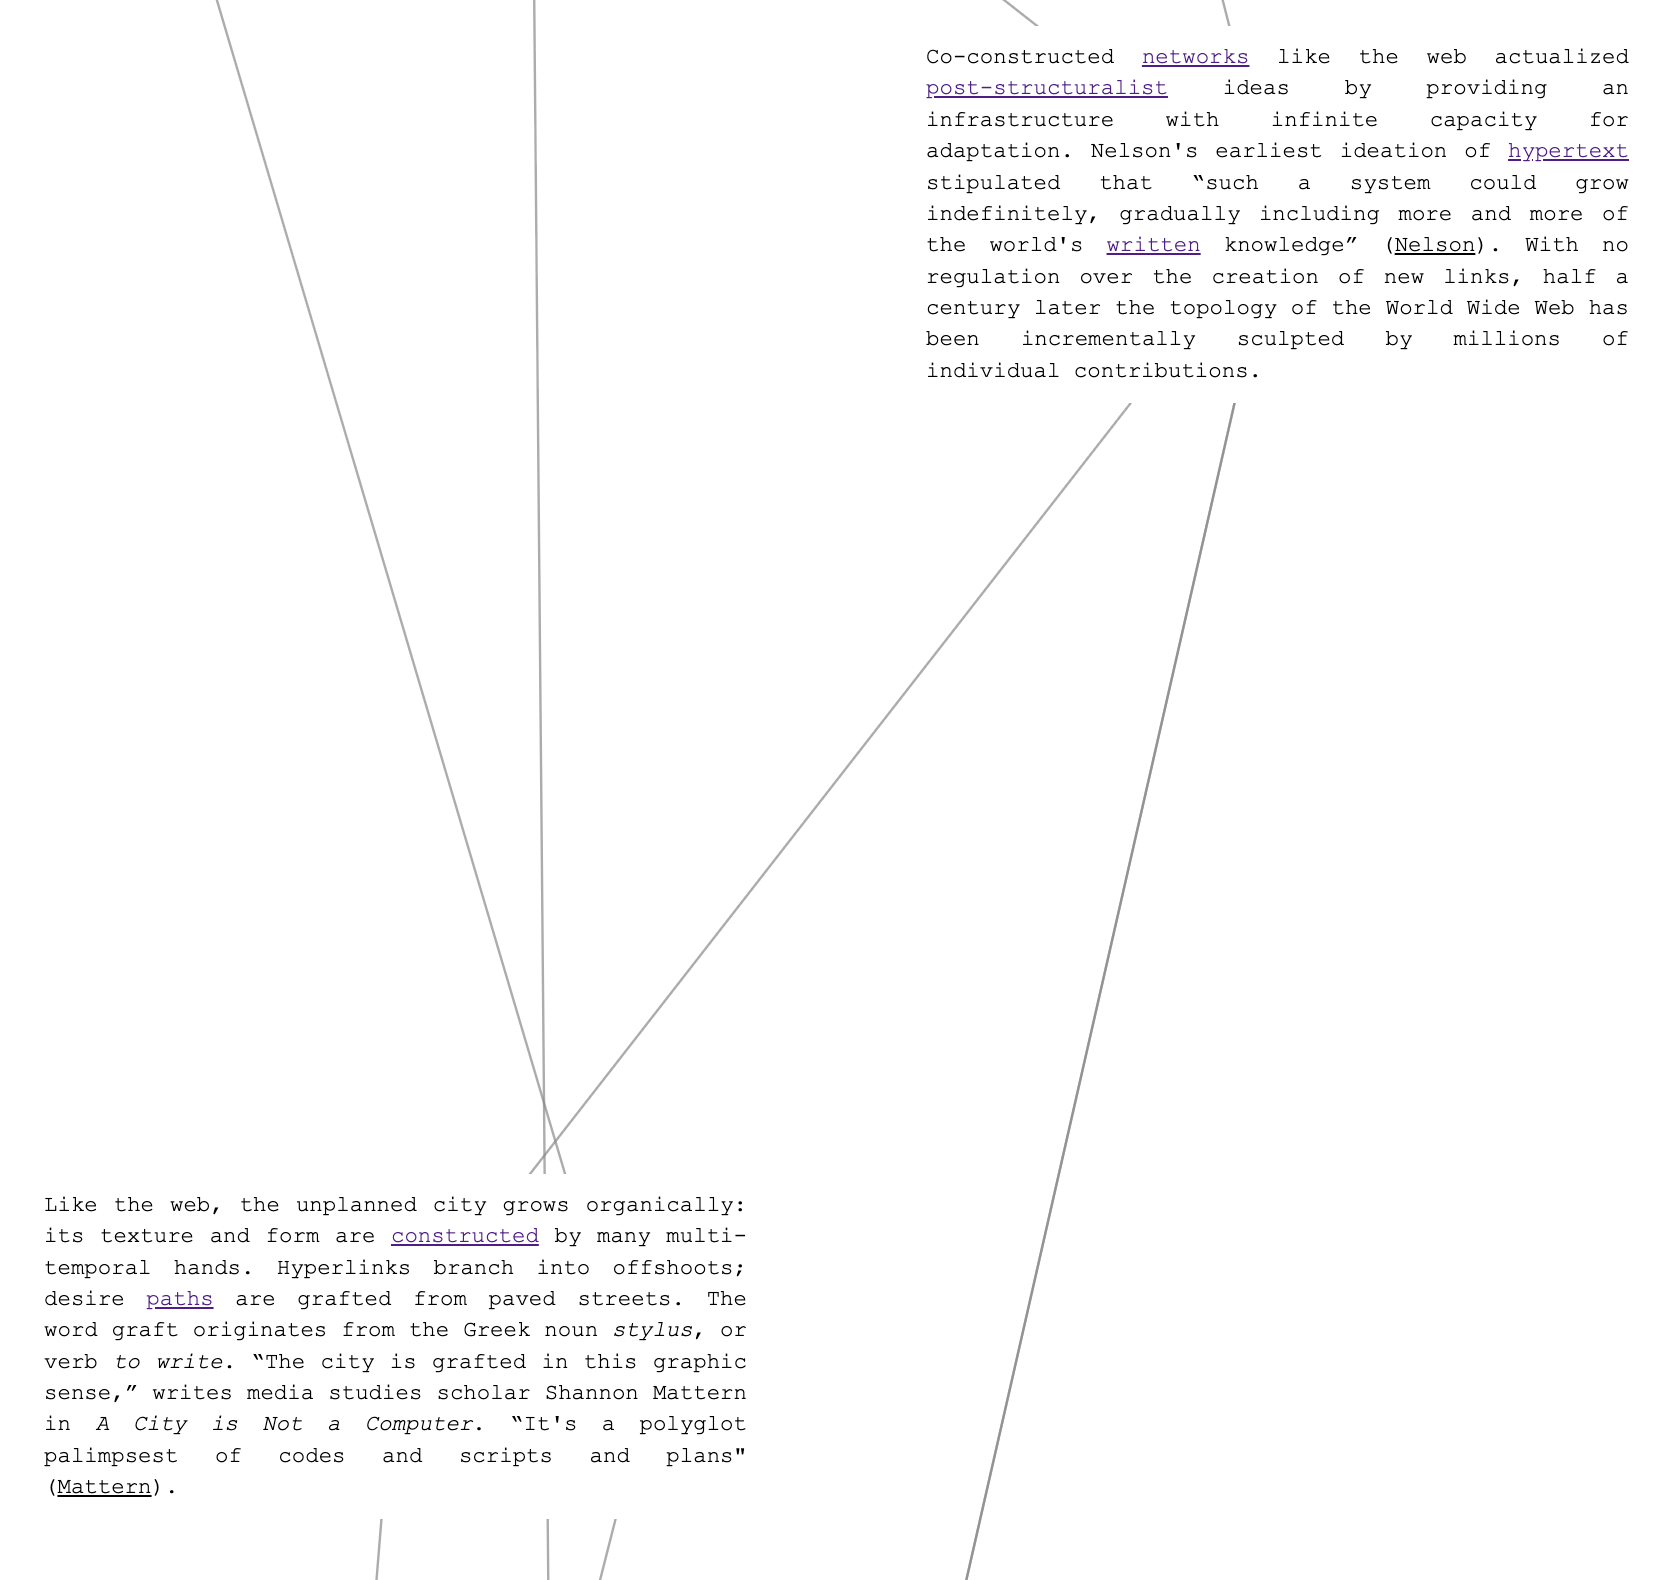
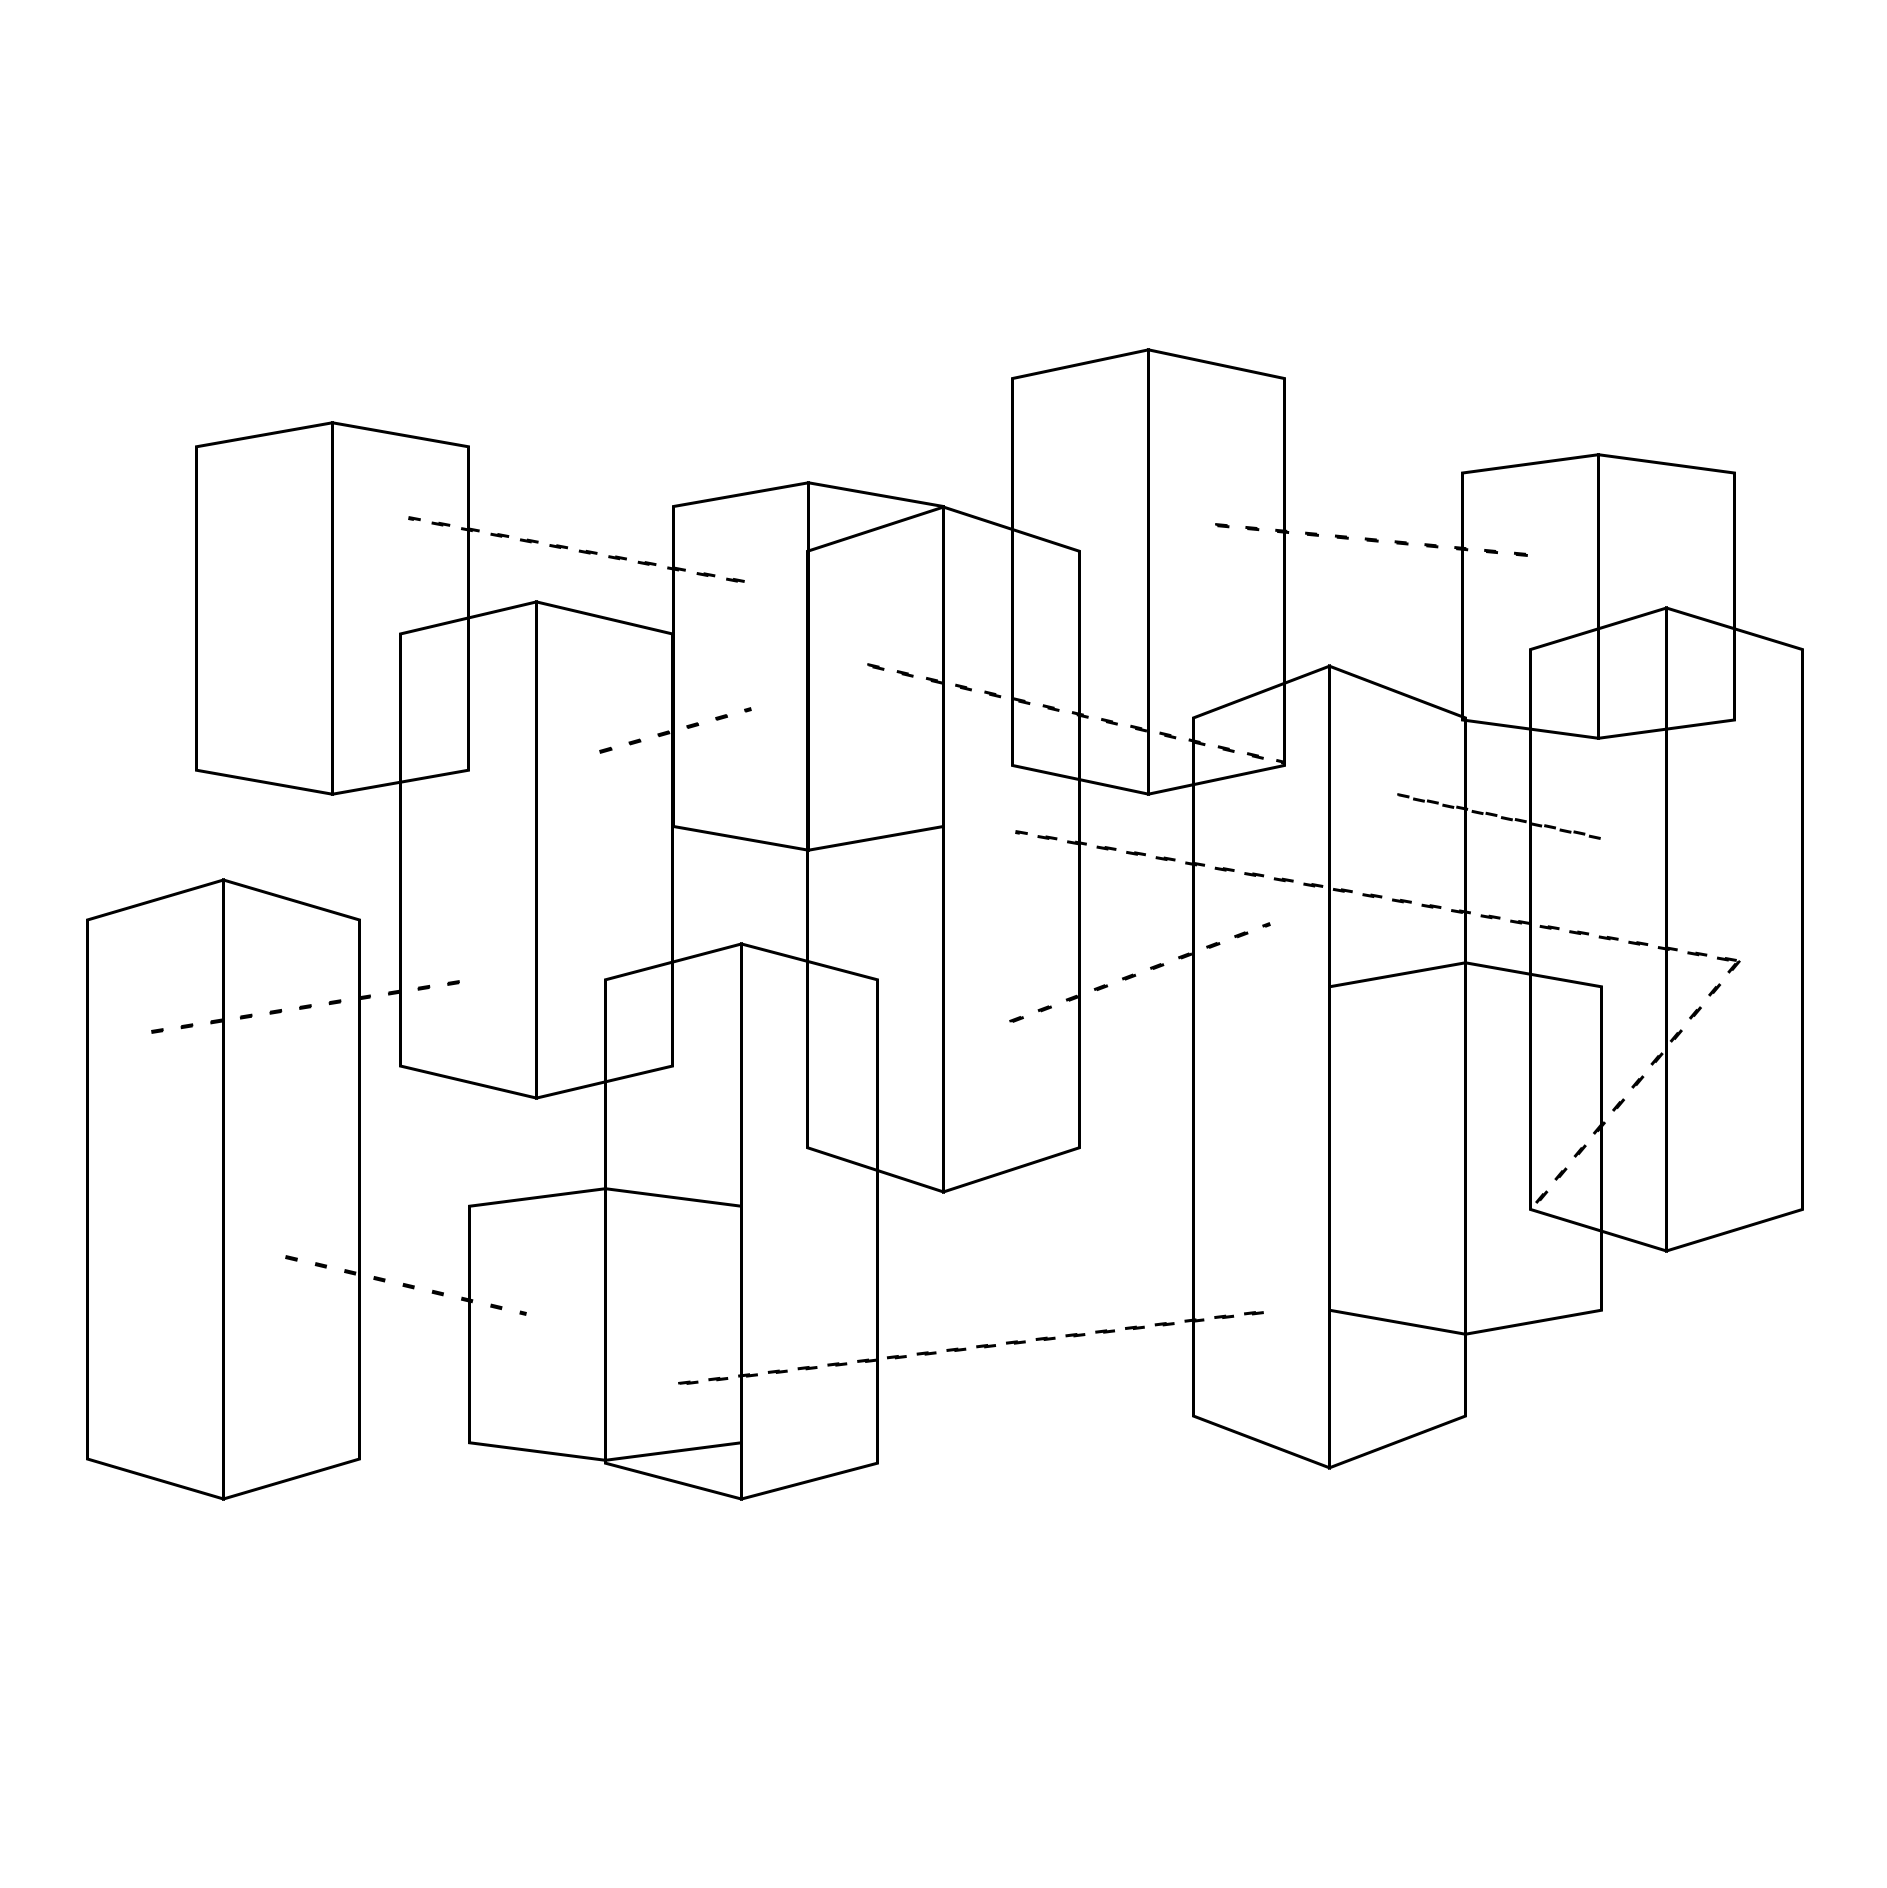
3rd column and other improvements

diff --git a/index.html b/index.html
@@ -12,21 +12,26 @@
       <!-- Left column -->
       <aside class="sidebar">
         <div class="sidebar-top">
-          <p>
+          <p class="about-me">
             Ellie Madsen is a NYC-based researcher, software engineer, and
             designer working at the intersection of media, computation, and the
-            environment. She is interested in digital representations of the
-            Earth, including geographic information systems, climate models, and
-            spatial data visualization.
+            environment.
+            <br /><br />
+            Her research practice questions the spatial and aesthetic conditions
+            of digital representations of Earth, including geographic
+            information systems, climate models, and remotely sensed data.
             <br /><br />
             Ellie is currently a Research Assistant at the
-            <a href="https://ccsr.columbia.edu/" target="_blank"
-              >Center for Climate Systems Research</a
+            <a
+              href="https://www.giss.nasa.gov/projects/impacts/"
+              target="_blank"
+              >Climate Impacts Group</a
             >
             and a Research Scholar at the
             <a href="https://buellcenter.columbia.edu/" target="_blank"
               >Buell Center for the Study of American Architecture</a
-            >. <br /><br />
+            >.
+            <!-- <br /><br />
             Ellie holds degrees in Computer Science and Environmental Studies
             from
             <a href="https://www.brown.edu/" target="_blank"
@@ -39,7 +44,7 @@
               >Computational Design Practices</a
             >
             from Columbia University
-            <a href="https://www.arch.columbia.edu/" target="_blank">GSAPP</a>.
+            <a href="https://www.arch.columbia.edu/" target="_blank">GSAPP</a>. -->
           </p>
         </div>
         <div class="sidebar-bottom">
@@ -67,11 +72,111 @@
         </div>
       </aside>
 
-      <!-- Right column -->
+      <!-- Middle column -->
       <main class="content">
-        <div id="filters" class="filters"></div>
+        <!-- <div id="filters" class="filters"></div> -->
         <div id="projects" class="grid"></div>
       </main>
+
+      <!-- Right column -->
+      <aside class="sidebar previously">
+        <div class="previously-top">
+          <p class="section-title">Education</p>
+          <p>
+            M.Sc.
+            <a
+              href="https://www.arch.columbia.edu/programs/15-m-s-computational-design-practices"
+              target="_blank"
+              >Computational Design Practices</a
+            >, Columbia GSAPP <br /><br />
+            B.A. Environmental Studies, B.A. Computer Science, Brown University
+            <br /><br />
+          </p>
+          <p class="section-title">Work</p>
+          <p>
+            Software Engineer,
+            <a href="https://www.pinterest.com/" target="_blank">Pinterest</a>
+            <br /><br />
+            Adjunct Associate Research Scholar,
+            <a href="https://buellcenter.columbia.edu/" target="_blank"
+              >Temple Hoyne Buell Center for the Study of American
+              Architecture</a
+            >
+            <br /><br />
+            Graduate Research Assistant,
+            <a
+              href="https://www.giss.nasa.gov/projects/impacts/"
+              target="_blank"
+              >Climate Impacts Group</a
+            >
+            <br /><br />
+            Graduate Research Assistant,
+            <a
+              href="https://pgg.ldeo.columbia.edu/projects/VISER"
+              target="_blank"
+              >Polar Geophysics Group</a
+            >
+            <br /><br />
+            Environmental Data Analyst,
+            <a
+              href="https://www.providenceri.gov/sustainability/"
+              target="_blank"
+              >Providence Office of Sustainability</a
+            >
+            <br /><br /><br />
+          </p>
+          <p class="section-title">Writing</p>
+          <p>
+            <em
+              ><a
+                href="https://gsapp-cdp.github.io/archive/projects/2026/EmbeddingEarth/"
+                target="_blank"
+                >Embedding Earth: A Critical Atlas of Planetary Computation</a
+              ></em
+            >
+            , Master's Thesis, awarded
+            <a
+              href="https://www.arch.columbia.edu/student-awards/2026"
+              target="_blank"
+            >
+              GSAPP Writing Prize
+            </a>
+            <br /><br />
+            <em
+              ><a href="https://elliemadsen.net/hypercity/" target="_blank"
+                >Reading the Hypercity: Post-Structuralism and Sense-Making in
+                Navigable Space
+              </a></em
+            >, URBAN Magazine <br /><br />
+            <em>Sounding the Tree of Life</em>, Are.na Annual (forthcoming)
+            <br /><br />
+            <em> Operational Aesthetics of High-Dimensional Space </em>
+            ,
+            <a href="https://www.4sonline.org/" target="_blank"
+              >Society for the Social Studies of Science</a
+            >
+            (forthcoming) <br /><br />
+            <em
+              >A Public Data Framework for Managing Surface Transported
+              Nutrients in a New York City Source Watershed</em
+            >
+            (forthcoming)
+
+            <br /><br />
+
+            <em
+              >Emerging signs of stress in Northeastern US forests pose risks to
+              water supplies for major urban areas</em
+            >
+            (forthcoming)
+            <br /><br />
+            <em>Transcoding Tidalectic Measurement and Myth</em>,
+            <a href="https://www.bgc.bard.edu/sensing-matters" target="_blank"
+              >Bard Graduate College Symposium</a
+            >
+          </p>
+        </div>
+      </aside>
     </div>
 
     <!-- Hamburger (mobile only) -->

diff --git a/style.css b/style.css
@@ -35,6 +35,7 @@ a {
 /* Sidebar */
 .sidebar {
   width: 20%;
+  flex-shrink: 0;
   border-right: 1px solid black;
   display: flex;
   flex-direction: column;
@@ -46,14 +47,31 @@ a {
 
 /* Content */
 .content {
-  width: 80%;
-  padding: 1rem;
+  flex: 1 1 0%;
+  min-width: 0;
   display: flex;
   flex-direction: column;
   overflow: auto; /* allow internal scrolling without escaping the outer box */
 }
 
+/* Right sidebar ("Previously") */
+.sidebar.previously {
+  border-right: none;
+  border-left: 1px solid black;
+  overflow-y: auto;
+}
+
+.section-title {
+  /* font-weight: normal; */
+  font-size: 1.3rem;
+  margin-bottom: 0.75rem;
+}
+.about-me {
+    font-size: 1.3rem;
+}
+
 /* Filters */
+/*
 .filters {
   margin: 1rem;
   font-size: 0.9rem;
@@ -69,14 +87,19 @@ a {
   color: black;
   font-weight: bold;
 }
+*/
 
 /* Grid */
 .grid {
   display: grid;
   /* change N columnes in grid here */
-  grid-template-columns: repeat(4, 1fr);
-  gap: 3rem;
-  margin: 2rem;
+  grid-template-columns: repeat(3, 1fr);
+  /* vertical / horizontal gap can be set independently */
+  row-gap: 2rem;
+  column-gap: 7rem;
+  margin-left: 4rem;
+  margin-right: 4rem;
+  margin-top: 1rem;
 }
 
 .project {
@@ -150,6 +173,18 @@ h4 { /* subtitles on project pages */
   width: 100%;
 }
 
+.project-content .image-row {
+  display: flex;
+  gap: 1rem;
+  align-items: flex-start;
+}
+
+.project-content .image-row img {
+  flex: 1 1 0;
+  width: auto;
+  min-width: 0;
+}
+
 
 /* Hamburger */
 .hamburger {
@@ -177,6 +212,7 @@ h4 { /* subtitles on project pages */
     display: none;
     width: 100%;
     border-right: none;
+    border-left: none;
     border-bottom: 1px solid black;
   }
 

diff --git a/projects/physarum.html b/projects/physarum.html
@@ -1,8 +1,8 @@
 <div class="project-content">
-  <p></p>
   <p>
-    I created a generative agent-based Physarum slime mold simulation script in
-    Grasshopper that can be applied to biomorphorphic structural design.
+    This generative, agent-based parametric design script simulates
+    three-dimensional slime mold growth for structural biomorphorphic
+    applications.
 
     <br /><br />
 
@@ -25,11 +25,27 @@
     geometry.
 
     <br /><br />
-    I build upon previous work in Physarum simulation by contributing a 3D
-    implementation in Grasshopper. Rather than producing a visual representation
-    of the organism, my implementation generates a structural model that bridges
-    the gap between scientific research and parametric design.
+    I build upon the previous work toward Physarum simulation of
+    <a href="https://github.com/fogleman/physarum" target="_blank"
+      >Michael Fogleman</a
+    >
+    and
+    <a href="https://sagejenson.com/36points" target="_blank">Sage Jenson</a> by
+    contributing a parametrized 3D implementation in Grasshopper. Rather than
+    producing a rasterized visual representation of the organism, this
+    computational script generates a vectorized 3D CAD model, bridging
+    scientific research with structural parametric design. <br /><br />
   </p>
+
+  <div class="image-row">
+    <img src="image/physarum3.png" />
+    <img src="image/physarum4.png" />
+    <img src="image/physarum5.png" />
+  </div>
+  <div class="image-row">
+    <img src="image/physarum1.png" />
+    <img src="image/physarum2.png" />
+  </div>
   <img
     src="image/physarum-animation.gif"
     style="width: 100%; margin-top: 20px"

diff --git a/script.js b/script.js
@@ -5,10 +5,11 @@ fetch("projects.json")
   .then(res => res.json())
   .then(data => {
     allProjects = data;
-    renderFilters();
+    // renderFilters();
     renderProjects();
   });
 
+/*
 function renderFilters() {
   const filters = document.getElementById("filters");
   const categorySet = new Set();
@@ -32,6 +33,7 @@ function renderFilters() {
     filters.appendChild(span);
   });
 }
+*/
 
 function renderProjects() {
   const grid = document.getElementById("projects");
@@ -64,7 +66,9 @@ function renderProjects() {
 
 /* Mobile menu toggle */
 document.querySelector(".hamburger").onclick = () => {
-  const sidebar = document.querySelector(".sidebar");
-  sidebar.style.display =
-    sidebar.style.display === "flex" ? "none" : "flex";
+  const sidebars = document.querySelectorAll(".sidebar");
+  const show = sidebars[0].style.display !== "flex";
+  sidebars.forEach(sidebar => {
+    sidebar.style.display = show ? "flex" : "none";
+  });
 };

diff --git a/projects/virtual-immaterial.html b/projects/virtual-immaterial.html
@@ -1,8 +1,8 @@
 <div class="project-content">
   <p>
-    <i>Virtual (im)material</i> is a digital world co-created with MC Vigilate
-    that explores dichotomies of decomposition / composition, material /
-    immaterial, threadedness / glitch. <br /><br />
+    <i>Virtual (im)material</i> is a digital world that explores dichotomies of
+    decomposition / composition, material / immaterial, threadedness / glitch.
+    <br /><br />
 
     The scene objects were 3D scanned from natural specimens in the RISD Nature
     Lab using an Occipital Structure Sensor and imported into Unity. The
